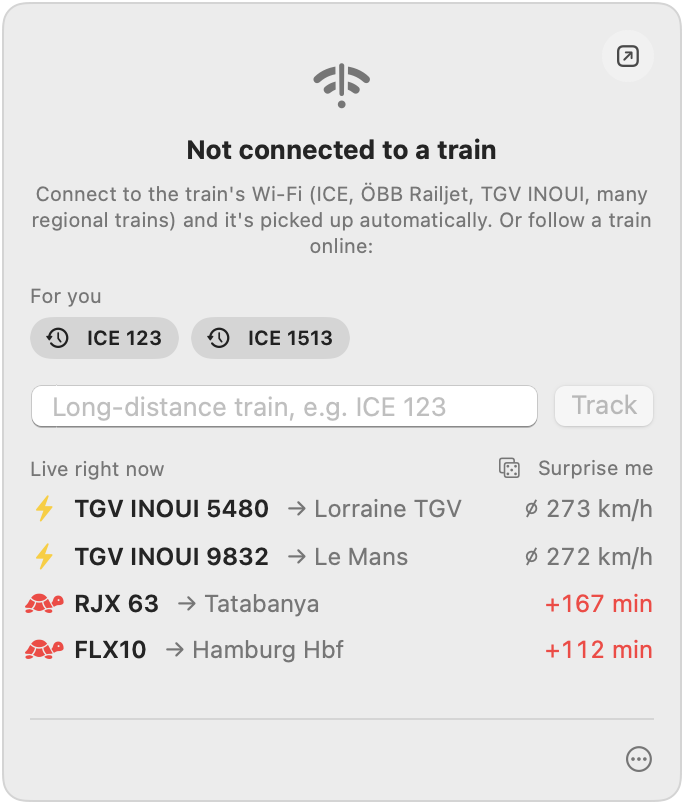
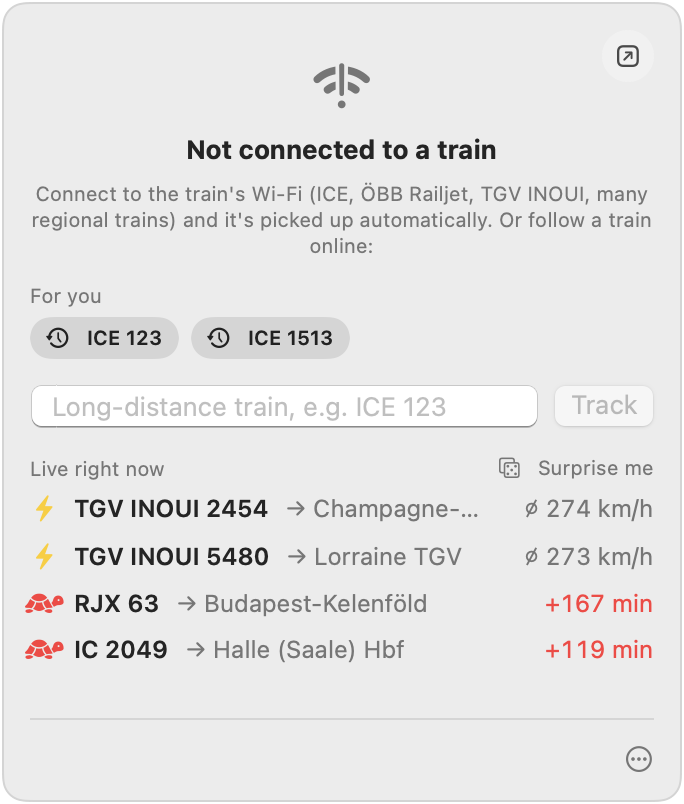
README: a wide window shot in light and dark, smaller panels
The first screenshot was a tall panel at full size and filled the page.
It is now the window with the map beside the panel, in GitHub's light and
dark themes, and the other shots scale with the page.

diff --git a/Sources/Zugbar/Screenshots.swift b/Sources/Zugbar/Screenshots.swift
@@ -30,6 +30,14 @@ enum Screenshots {
         let plan = JourneyPlan(trainName: ice.trainName!, destinationStopID: nuremberg.id, connection: connection)
         save(TrainMonitor(snapshot: ice, topSpeed: 300, now: iceNow, plan: plan), .english, dark: false, "panel-ice", in: directory, defaults: defaults)
 
+        // The window with the map beside the panel, for the top of the README in GitHub's light and dark themes.
+        for dark in [false, true] {
+            let window = StatusPanel(monitor: TrainMonitor(snapshot: ice, topSpeed: 300, now: iceNow, plan: plan), layout: .split)
+                .frame(width: 820, height: 540)
+            save(window, .english, dark: dark, dark ? "window-dark" : "window", in: directory, defaults: defaults)
+        }
+        save(TripsView(monitor: TrainMonitor(snapshot: nil), madeUp: DemoTrips.log), .english, dark: false, "trips", in: directory, defaults: defaults)
+
         var history = TrainHistory()
         for day in 1...4 {
             let date = Date().addingTimeInterval(Double(-day) * 86_400)

diff --git a/README.md b/README.md
@@ -2,7 +2,12 @@
 
 Live train info in your Mac's menu bar.
 
-<img src="docs/screenshots/window.png" alt="Following an ICE online, with the route on the map">
+<p align="center">
+  <picture>
+    <source media="(prefers-color-scheme: dark)" srcset="docs/screenshots/window-dark.png">
+    <img src="docs/screenshots/window.png" width="760" alt="On an ICE: speed, destination and connection, with the route on the map">
+  </picture>
+</p>
 
 - **On board:** speed, next stop, delays and tracks from the train's Wi-Fi (DB ICE, ÖBB Railjet, SNCF TGV INOUI;
   DB Regio and ČD too, written from the portals' known formats and not yet tried on a real train), how
@@ -22,15 +27,15 @@ Live train info in your Mac's menu bar.
   on your Mac, with CSV export; a ride stays one trip when the lid closes or the app restarts
 - English and German
 
-<table>
-  <tr>
-    <td valign="top"><img src="docs/screenshots/panel-ice.png" width="230" alt="On an ICE, with destination and connection"></td>
-    <td valign="top"><img src="docs/screenshots/panel-discover.png" width="230" alt="Suggestions and live trains"></td>
-    <td valign="top"><img src="docs/screenshots/panel-regional.png" width="230" alt="Picking a regional train at a station"></td>
-  </tr>
-</table>
+<p align="center">
+  <img src="docs/screenshots/panel-ice.png" width="32%" alt="On an ICE, with destination and connection">
+  <img src="docs/screenshots/panel-discover.png" width="32%" alt="Suggestions and live trains">
+  <img src="docs/screenshots/panel-regional.png" width="32%" alt="Picking a regional train at a station">
+</p>
 
-<img src="docs/screenshots/trips.png" width="340" alt="The trip log: a year in figures and the lines ridden">
+<p align="center">
+  <img src="docs/screenshots/trips.png" width="44%" alt="The trip log: a year in figures and the lines ridden">
+</p>
 
 > [!NOTE]
 > Vibe-coded hobby project, mostly written by Claude and built on
